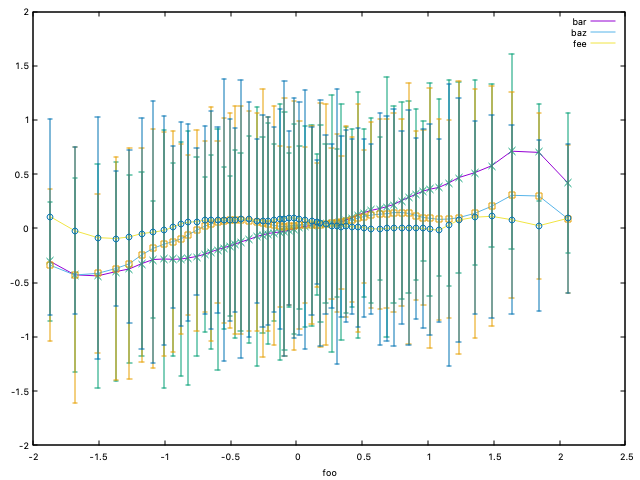
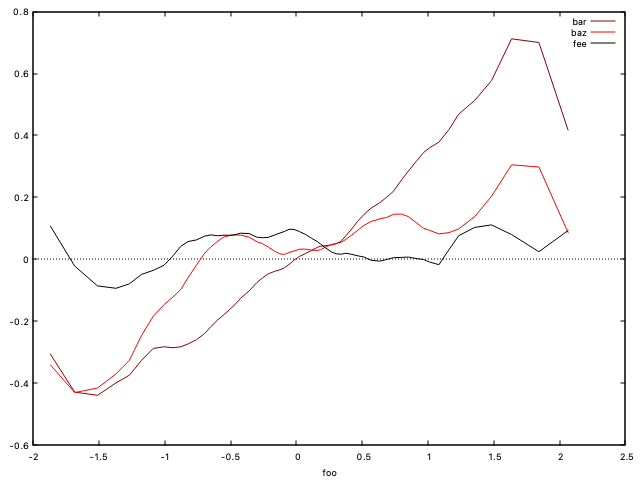
misc fixes in readme.md and rgram-smooth.png

diff --git a/readme.md b/readme.md
@@ -14,7 +14,7 @@ CSV or whitespace-separated utf-8 text.  The input is normally expected in a dat
 
 ## Supported graphic backends
 
-* `gnuplot`. Requires a [gnuplot5](http://www.gnuplot.info/docs_5.0/gnuplot.pdf) installation.  Generates cleaner graphics in a popup window without blocking command line or calling application.
+* `gnuplot`. Requires a [gnuplot5](http://www.gnuplot.info/docs_5.0/gnuplot.pdf) installation.  Generates cleaner graphics in a popup window without an inconvenient blocking command line or calling application.
 * `pyplot`.  Uses matplotlib.pyplot supplied with python istallation.  This backend blocks the calling shell process until the Qt window is closed.
 
 Both drivers support non-blocking plotting to a pdf file (`--output` option).
@@ -26,7 +26,7 @@ Both drivers support non-blocking plotting to a pdf file (`--output` option).
 * 1D histograms of column(s) in a dataframe
 * regressograms for one or more y(x)
 
-2D graphs, histograms, and regressograms can be smoothed by local linear regression using user-supplied bandwidth (`--llr` option).  Additional smoothing options include splines supported by gnuplot (`--smooth` option)
+2D graphs, histograms, and regressograms can be smoothed by local linear regression using user-supplied bandwidth (`--llr` option).  Additional data manipulation include splines supported by gnuplot (`--smooth` option), cumulation (`--cumsum`), differencing (`--diff`), subsetting (`--start`, `--end`), and printing basic statistics (`--stats`).
 
 ## Regressogram
 
@@ -41,11 +41,11 @@ Command lines and resulting plots below demonstrate different views of the same 
 <img src="scatter.png" width="800" />
 This view is not particularly telling.
 
-### Regressogram with errorbars: `plot -t | plot 1-4 -eERW 5 -B 60`
+### Regressogram with errorbars: `plot -t | plot 1-4 -rERW 5 -B 60`
 <img src="rgram-errorbars.png" width="600" />
 When error bars are large, the dependence of Mean(y) of x is not very visible.  Larger bins will generate smaller error bars.
 
-### Smoothed regressogram: `plot -t | plot 1-4 -eERW 5 -B 60 -L 0.4`
+### Smoothed regressogram: `plot -t | plot 1-4 -zERW 5 -B 60 -L 0.4`
 <img src="rgram-smooth.png" width="600" />
 Smoothing removes some noise and gives a better idea whether and how y depends on x.
 
@@ -139,7 +139,7 @@ $ plot -X
 
 ## Implementation notes
 
-`plot` loads input data into a pandas dataframe using `pandas.read_csv`.  The reason for using `pandas` is that parsing and tokenizing by `read_csv` is faster than pure python.  Support for alignment/merging of data from multiple files is also a plus.  When gnuplot backend is used, the data (after any smoothing or other processing) is saved to a `tempfile` passed to gnuplot executed via `subprocess`.  The gnuplot script can be viewed using `--verbose` option, and the temporary file can be kept (`--keeptmp`) for debugging.
+`plot` loads input data into a pandas dataframe using `pandas.read_csv`.  The reason for using `pandas` is that parsing and tokenizing by `read_csv` is faster than in pure python.  Support for alignment/merging of data from multiple files is also a plus.  When the gnuplot backend is used, the data (after any smoothing or other processing) is saved to a `tempfile` passed to gnuplot executed via `subprocess`.  The gnuplot script can be viewed using `--verbose` option, and the temporary file can be kept (`--keeptmp`) for debugging.
 
 ## Installation
 
